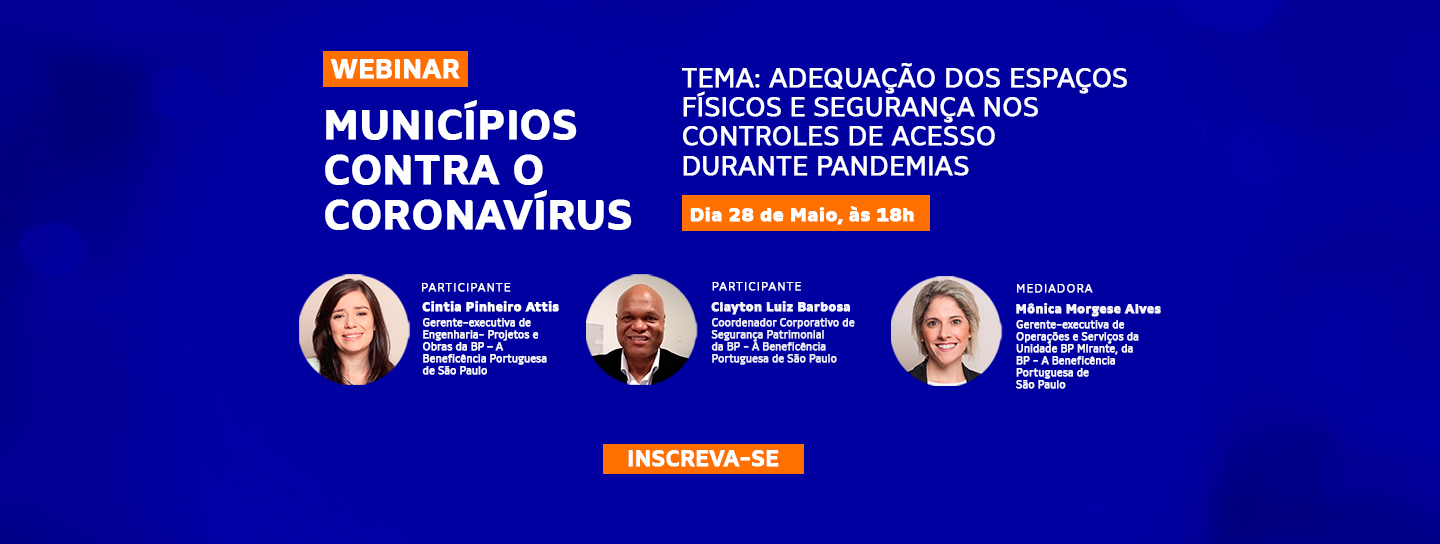
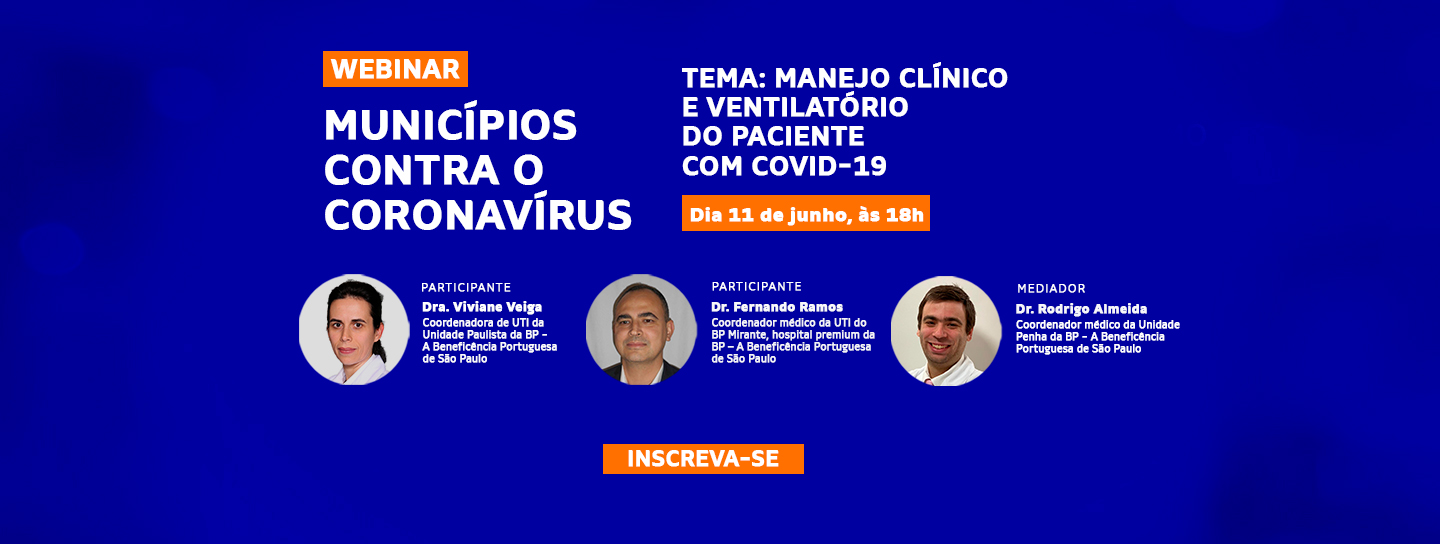
atualizacao webinars

Changed region(s): [[0.1875, 0.5, 0.8125, 0.7188], [0.4688, 0.125, 0.7812, 0.3438], [0.5, 0.375, 0.6562, 0.4062]]

diff --git a/resources/views/site/index.blade.php b/resources/views/site/index.blade.php
@@ -38,10 +38,10 @@
     <div class="carousel-item">
       <!--Mask color-->
       <div class="view">
-        <a href="{{url('play/aspectos')}}" target="_blank">
-        <img class="d-block w-100 slide-pc" src="{{asset('site/img/banner/3.3.jpg')}}"
+        <a href="https://bit.ly/2XcC811" target="_blank">
+        <img class="d-block w-100 slide-pc" src="{{asset('site/img/banner/6.6.jpg')}}"
           alt="First slide">
-            <img class="d-block w-100 slide-mobile"  src="{{asset('site/img/banner/mobilidade3.jpg')}}"
+            <img class="d-block w-100 slide-mobile"  src="{{asset('site/img/banner/mobilidade6.jpg')}}"
           alt="First slide">
         </a>
       </div>
@@ -300,54 +300,55 @@ de quem precisa ser cuidado
             <div class="col-lg-8 ml-4 ml-mobile">
                 <div class="row mb-3 espaco-mobile">
                   <div class="col-md-3 data webinar-mobile">
-                    <h3 class="data"> 04/06 </h3>
+                    <h3 class="data"> 11/06 </h3>
                     <h3 class="desc-data">Quinta-Feira - 18h </h3>
                    </div>
                   <div class="col-md-7 bg-data webinar-mobile">
                     <div class="card-block p-2">
                       <h4 class="card-title tema-webinar text-uppercase">
-                      Como garantir qualidade assistencial e segurança do paciente 
+                      Manejo clínico e ventilatório do paciente com covid-19. 
                       </h4>
+                      <!-- remover este espaço --><div style="height:30px;"></div> 
                       
                     </div>
                   </div>
                   <div class="col-md-2 bg-data webinar-mobile">
-                    <a href="https://bit.ly/3clEGhO" target="_blank" class="btn btn-como-foi">INSCREVA-SE</a>
+                    <a href="https://bit.ly/2XcC811" target="_blank" class="btn btn-como-foi">INSCREVA-SE</a>
                   </div>
                 </div>
                 <div class="row mb-3  espaco-mobile">
                   <div class="col-md-3 data webinar-mobile">
-                  <h3 class="data"> 11/06 </h3>
+                  <!-- remover este espaço --><div style="height:30px;" class="espaco-mobile slide-pc"></div> 
+                  <h3 class="data"> 18/06 </h3>
                     <h3 class="desc-data">Quinta-Feira - 18h </h3>
                    </div>
                   <div class="col-md-7 bg-data webinar-mobile">
                     <div class="card-block p-2">
                     <h4 class="card-title tema-webinar text-uppercase">
-                    Manejo clínico e ventilatório do paciente com covid-19. 
-                     <!-- remover este espaço --><div style="height:30px;"></div> 
+                    Boas práticas de isolamento: soluções criativas para conscientização das pessoas a respeito da necessidade do isolamento.
+                    
                     </h4>
                       <!-- <p class="card-text desc-tema-webinar">DESAFIOS E SOLUÇÕES</p> -->
                     </div>
                   </div>
                   <div class="col-md-2 bg-data webinar-mobile">
-                  <a href="https://bit.ly/2XcC811" target="_blank" class="btn btn-como-foi">INSCREVA-SE</a>
+                  <a href="https://bit.ly/2XKsDVF" target="_blank" class="btn btn-como-foi">INSCREVA-SE</a>
                   </div>
                 </div>
                 <div class="row mb-2  espaco-mobile">
                   <div class="col-md-3 data webinar-mobile">
-                  <!-- remover este espaço --><div style="height:30px;" class="espaco-mobile slide-pc"></div> 
-                  <h3 class="data"> 18/06 </h3>
+                  <h3 class="data"> 25/06 </h3>
                     <h3 class="desc-data">Quinta-Feira - 18h</h3>
                    </div>
                   <div class="col-md-7 bg-data webinar-mobile">
                     <div class="card-block p-2">
                     <h4 class="card-title tema-webinar text-uppercase">
-                    Boas práticas de isolamento: soluções criativas para conscientização das pessoas a respeito da necessidade do isolamento
+                    Abordagem de gestantes com suspeitas ou confirmação de covid-19.
                     </h4>
                     </div>
                   </div>
                   <div class="col-md-2 bg-data webinar-mobile">
-                  <a href="https://bit.ly/2XKsDVF" target="_blank" class="btn btn-como-foi">INSCREVA-SE</a>
+                  <a href="https://bit.ly/2znqIhW" target="_blank" class="btn btn-como-foi">INSCREVA-SE</a>
                   </div>
                 </div>
               </div>
